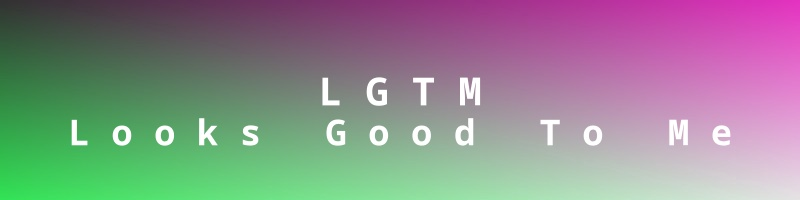
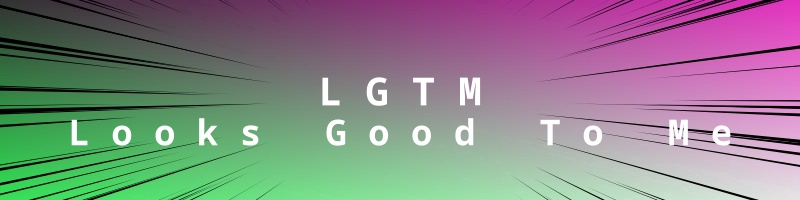
fix: 集中線

diff --git a/concentration_drawer.go b/concentration_drawer.go
@@ -28,7 +28,7 @@ func NewConcentrationLinesDrawer(inputPath, outputPath string) Drawer {
 	return &ConcentrationLinesDrawer{
 		InputPath:  inputPath,
 		OutputPath: outputPath,
-		LineCount:  120,         // デフォルトの線の本数（密度を上げる）
+		LineCount:  200,         // デフォルトの線の本数（密度をさらに上げる）
 		LineColor:  color.Black, // デフォルトは黒
 	}
 }
@@ -142,18 +142,22 @@ func (c *ConcentrationLinesDrawer) drawConcentrationLines(img image.Image) image
 	// ランダムシードを初期化
 	rng := rand.New(rand.NewSource(time.Now().UnixNano()))
 
-	angleStep := 2 * math.Pi / float64(c.LineCount)
+	// 角度をランダムに生成
+	angles := make([]float64, c.LineCount)
+	for i := 0; i < c.LineCount; i++ {
+		angles[i] = rng.Float64() * 2 * math.Pi
+	}
 
 	for i := 0; i < c.LineCount; i++ {
-		angle := float64(i) * angleStep
+		angle := angles[i]
 
-		// 外側は必ず画像の端から開始（maxDistance）
-		outerDistance := maxDistance * 0.6 // 画像の端
+		// 外側は必ず画像の端から（maxDistanceを使用）
+		outerDistance := maxDistance * 0.6 // 画像の端まで到達
 		outerX := centerX + math.Cos(angle)*outerDistance
 		outerY := centerY + math.Sin(angle)*outerDistance
 
-		// 内側の尖った点（中心に近い）- ランダム幅をさらに小さく
-		innerDistanceRatio := 0.18 + rng.Float64()*0.02 // 0.18 ~ 0.20 (幅をさらに狭く)
+		// 内側の長さをランダムに（0.15 ~ 0.35の範囲で変化）
+		innerDistanceRatio := 0.15 + rng.Float64()*0.2 // 0.15 ~ 0.35
 		innerDistance := maxDistance * innerDistanceRatio
 		innerX := centerX + math.Cos(angle)*innerDistance
 		innerY := centerY + math.Sin(angle)*innerDistance

diff --git a/cmd/lgtm/main.go b/cmd/lgtm/main.go
@@ -101,7 +101,7 @@ func init() {
 	rootCmd.Flags().StringVarP(&customSubText, "sub-text", "s", "", "custom sub-text to embed (optional, default: 'Looks Good To Me')")
 	rootCmd.Flags().StringVarP(&color, "color", "c", "white", "text color: 'white' or 'black' (optional)")
 	rootCmd.Flags().BoolVar(&gopher, "gopher", false, "embed gopher image instead of text (optional)")
-	rootCmd.Flags().BoolVar(&concentrationLines, "conc", false, "add concentration lines to the image (optional)")
+	rootCmd.Flags().BoolVarP(&concentrationLines, "concentration-lines", "l", false, "add concentration lines to the image (optional)")
 }
 
 func main() {

diff --git a/README.md b/README.md
@@ -33,11 +33,11 @@ Usage:
   lgtm [flags]
 
 Flags:
-  -c, --color string          text color: 'white' or 'black' (optional) (default "white")
-      --concentration-lines   add concentration lines to the image (optional)
-      --gopher                embed gopher image instead of text (optional)
-  -h, --help                  help for lgtm
-  -i, --input string          input image path (required)
+  -c, --color string              text color: 'white' or 'black' (optional) (default "white")
+  -l, --concentration-lines       add concentration lines to the image (optional)
+      --gopher                    embed gopher image instead of text (optional)
+  -h, --help                      help for lgtm
+  -i, --input string              input image path (required)
   -o, --output string         output file path (optional, default: current directory with auto-generated filename)
   -s, --sub-text string       custom sub-text to embed (optional, default: 'Looks Good To Me')
   -t, --text string           custom text to embed (optional, default: 'LGTM')
@@ -71,6 +71,8 @@ lgtm -i image.jpeg --gopher
 
 # Concentration lines mode (adds manga-style concentration lines)
 lgtm -i image.jpeg --concentration-lines
+# or use the short form:
+lgtm -i image.jpeg -l
 ```
 
 ### Go Library
